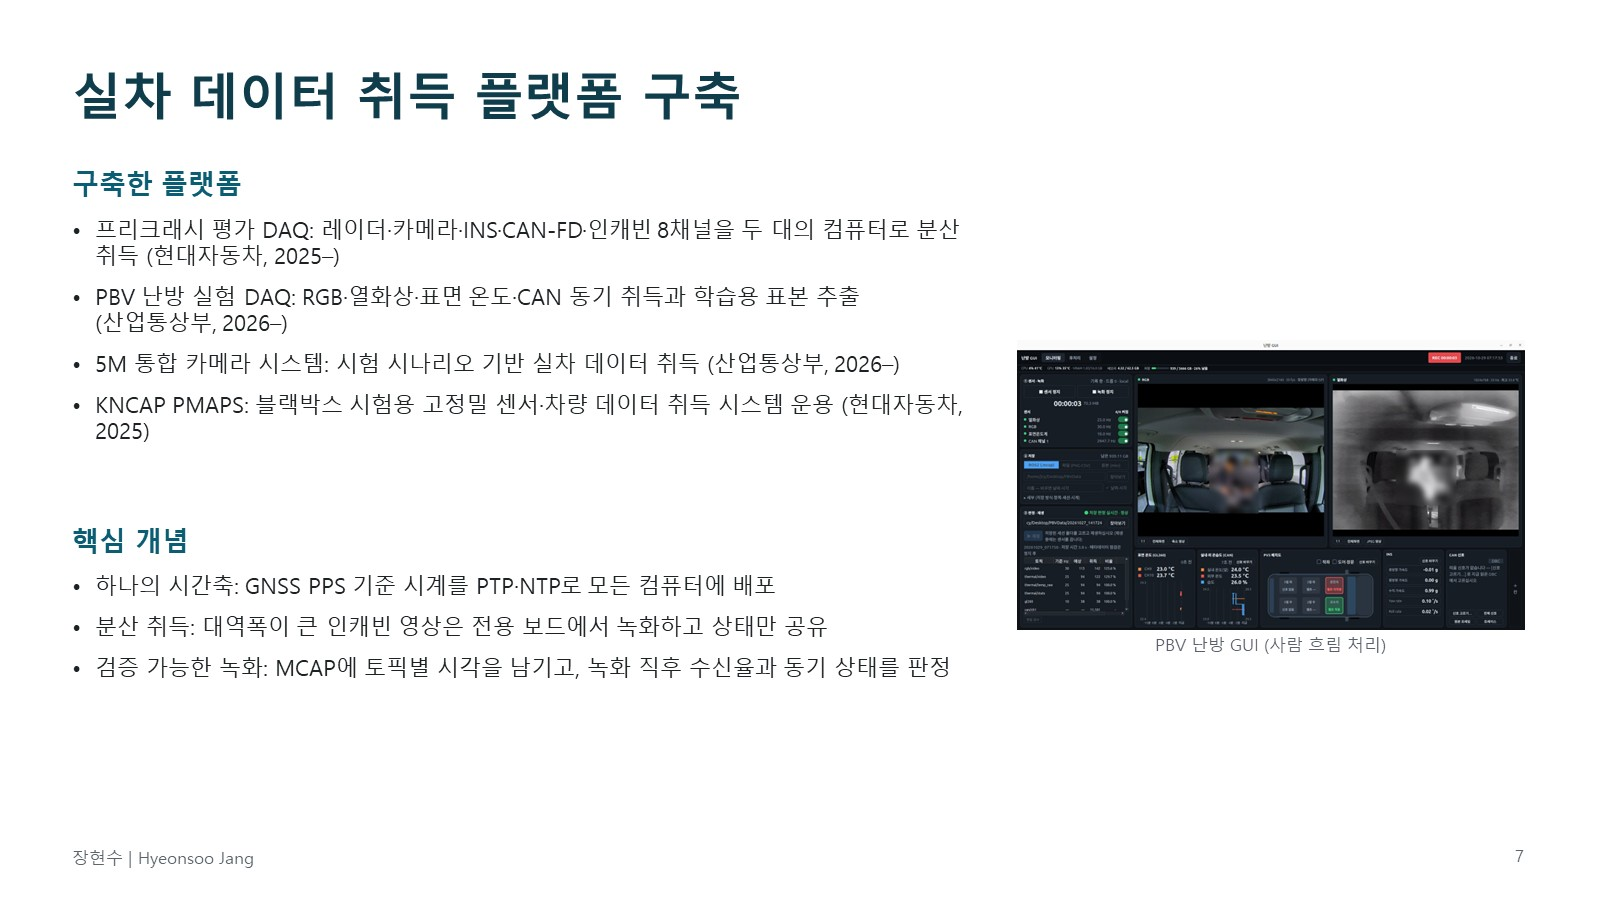
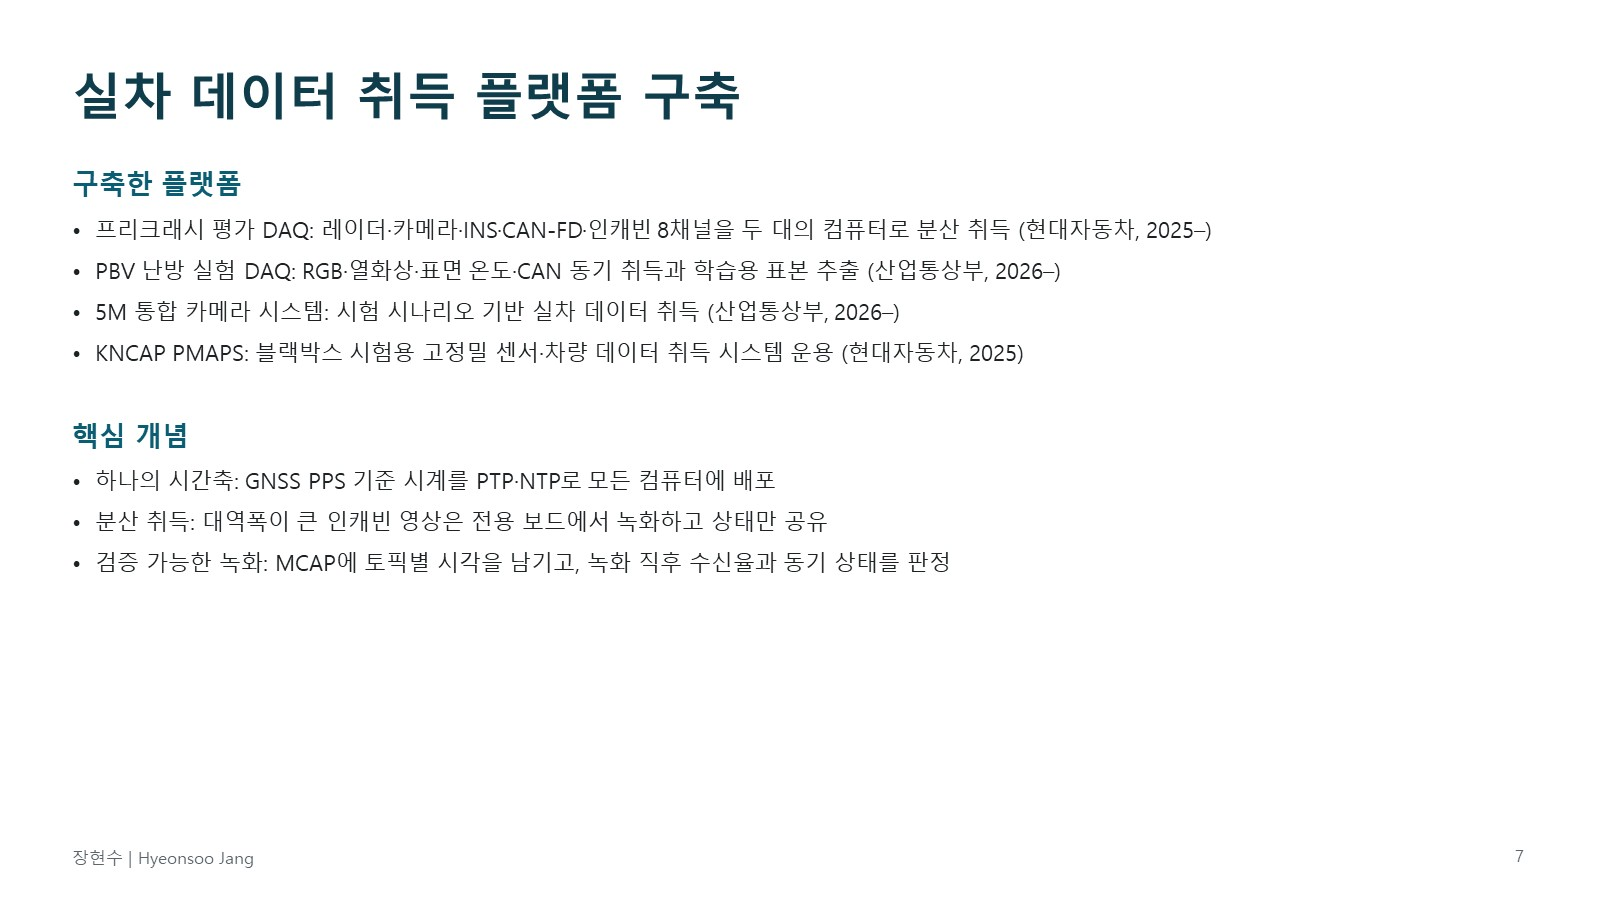
모든 페이지 큰 제목에 '작성 중' 표시를 붙이고 난방 GUI 캡처 제거
- site.yaml의 wip이 true인 동안 각 페이지 h1 옆에 '작성 중'(Work in progress) 표시
- 연구 및 개발의 PBV 난방 GUI 캡처와 소개 자료 7장의 캡처 제거

diff --git a/assets/style.css b/assets/style.css
@@ -51,6 +51,8 @@ nav .lang { margin-left: auto; }
 /* 첫 화면 */
 .hero { background: var(--asphalt); color: var(--paint-white); padding-block: 44px 44px; }
 .hero-grid { display: grid; grid-template-columns: minmax(0, 1fr) 230px; gap: 48px; align-items: start; }
+.wip { display: inline-block; margin-left: .5em; padding: .2em .65em; font-size: 1rem; font-weight: 700; letter-spacing: 0; line-height: 1.4; vertical-align: middle; color: var(--asphalt-deep); background: var(--paint-yellow); border-radius: 2px; }
+.hero h1 .wip { font-size: 1.05rem; }
 .hero h1 { font-size: clamp(2.8rem, 7vw, 4.4rem); font-weight: 600; line-height: 1.1; letter-spacing: -.03em; }
 .hero .headline { font-size: clamp(1.2rem, 2.4vw, 1.55rem); font-weight: 600; line-height: 1.45; margin: 20px 0 14px; color: var(--paint-yellow); }
 .hero .lede { max-width: 38em; color: var(--paint-white); }
